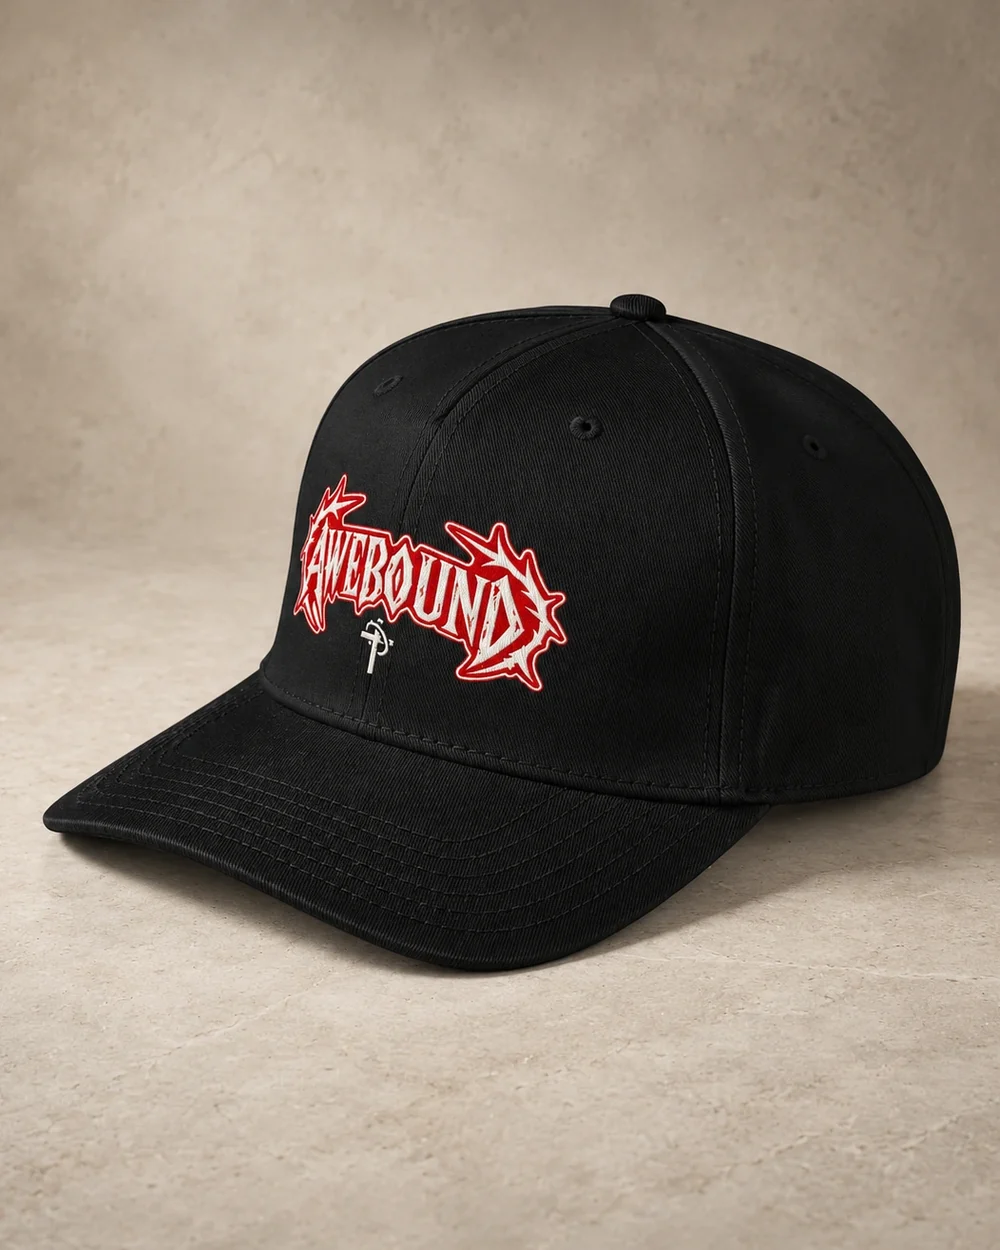
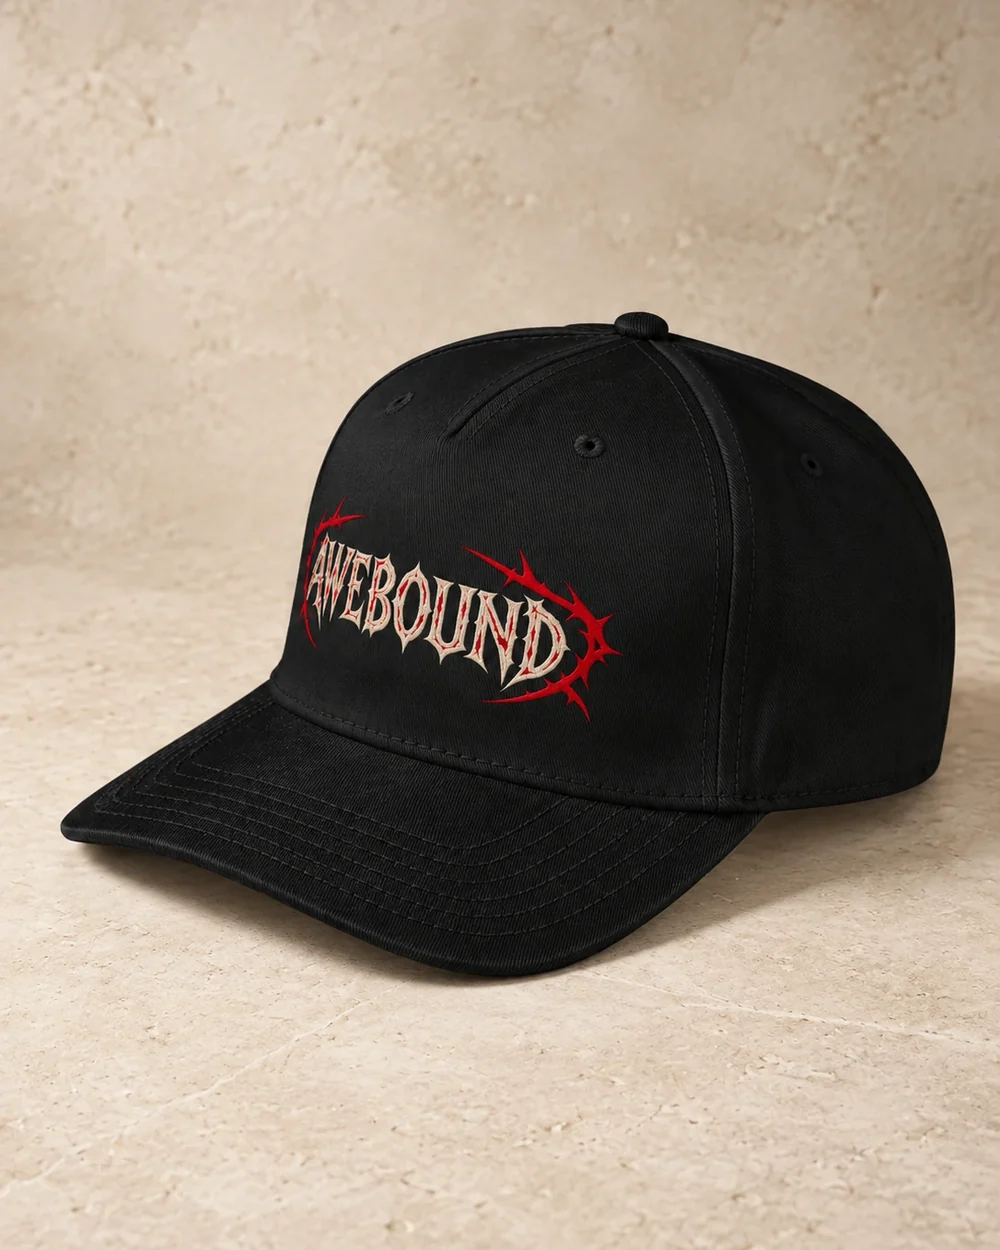
Signature Cap's new print; Instagram, TikTok and Facebook in the footer
The cap's two new Fourthwall photos (the wordmark in ivory with crimson
through its letters, framed by red thorns, no cross below) replace the
old ones; its close-up comes from the new front photo, its plate is
matched to the lighter backdrop, and its copy and alt text describe
the new print. The owner's editor offers suggested wording for the
cap's edited design story and imagery meaning.

The footer's "Follow Awebound" row links the three profiles with their
own marks (Simple Icons, CC0), and the home page's store data lists
them as sameAs.

Claude-Session: https://claude.ai/code/session_01VmqVMxiDGTr2J5oF5LgYP4

diff --git a/apps/web/src/components/social-links.tsx b/apps/web/src/components/social-links.tsx
@@ -1,0 +1,43 @@
+import { SITE, SOCIAL } from "@/lib/site";
+
+/**
+ * Each platform's own mark on a 24 grid, from Simple Icons (CC0), used only to name the service,
+ * in the ink of the footer like the "Ask AI" marks beside it.
+ */
+const MARKS: Record<(typeof SOCIAL)[number]["name"], string> = {
+  Instagram:
+    "M7.0301.084c-1.2768.0602-2.1487.264-2.911.5634-.7888.3075-1.4575.72-2.1228 1.3877-.6652.6677-1.075 1.3368-1.3802 2.127-.2954.7638-.4956 1.6365-.552 2.914-.0564 1.2775-.0689 1.6882-.0626 4.947.0062 3.2586.0206 3.6671.0825 4.9473.061 1.2765.264 2.1482.5635 2.9107.308.7889.72 1.4573 1.388 2.1228.6679.6655 1.3365 1.0743 2.1285 1.38.7632.295 1.6361.4961 2.9134.552 1.2773.056 1.6884.069 4.9462.0627 3.2578-.0062 3.668-.0207 4.9478-.0814 1.28-.0607 2.147-.2652 2.9098-.5633.7889-.3086 1.4578-.72 2.1228-1.3881.665-.6682 1.0745-1.3378 1.3795-2.1284.2957-.7632.4966-1.636.552-2.9124.056-1.2809.0692-1.6898.063-4.948-.0063-3.2583-.021-3.6668-.0817-4.9465-.0607-1.2797-.264-2.1487-.5633-2.9117-.3084-.7889-.72-1.4568-1.3876-2.1228C21.2982 1.33 20.628.9208 19.8378.6165 19.074.321 18.2017.1197 16.9244.0645 15.6471.0093 15.236-.005 11.977.0014 8.718.0076 8.31.0215 7.0301.0839m.1402 21.6932c-1.17-.0509-1.8053-.2453-2.2287-.408-.5606-.216-.96-.4771-1.3819-.895-.422-.4178-.6811-.8186-.9-1.378-.1644-.4234-.3624-1.058-.4171-2.228-.0595-1.2645-.072-1.6442-.079-4.848-.007-3.2037.0053-3.583.0607-4.848.05-1.169.2456-1.805.408-2.2282.216-.5613.4762-.96.895-1.3816.4188-.4217.8184-.6814 1.3783-.9003.423-.1651 1.0575-.3614 2.227-.4171 1.2655-.06 1.6447-.072 4.848-.079 3.2033-.007 3.5835.005 4.8495.0608 1.169.0508 1.8053.2445 2.228.408.5608.216.96.4754 1.3816.895.4217.4194.6816.8176.9005 1.3787.1653.4217.3617 1.056.4169 2.2263.0602 1.2655.0739 1.645.0796 4.848.0058 3.203-.0055 3.5834-.061 4.848-.051 1.17-.245 1.8055-.408 2.2294-.216.5604-.4763.96-.8954 1.3814-.419.4215-.8181.6811-1.3783.9-.4224.1649-1.0577.3617-2.2262.4174-1.2656.0595-1.6448.072-4.8493.079-3.2045.007-3.5825-.006-4.848-.0608M16.953 5.5864A1.44 1.44 0 1 0 18.39 4.144a1.44 1.44 0 0 0-1.437 1.4424M5.8385 12.012c.0067 3.4032 2.7706 6.1557 6.173 6.1493 3.4026-.0065 6.157-2.7701 6.1506-6.1733-.0065-3.4032-2.771-6.1565-6.174-6.1498-3.403.0067-6.156 2.771-6.1496 6.1738M8 12.0077a4 4 0 1 1 4.008 3.9921A3.9996 3.9996 0 0 1 8 12.0077",
+  TikTok:
+    "M12.525.02c1.31-.02 2.61-.01 3.91-.02.08 1.53.63 3.09 1.75 4.17 1.12 1.11 2.7 1.62 4.24 1.79v4.03c-1.44-.05-2.89-.35-4.2-.97-.57-.26-1.1-.59-1.62-.93-.01 2.92.01 5.84-.02 8.75-.08 1.4-.54 2.79-1.35 3.94-1.31 1.92-3.58 3.17-5.91 3.21-1.43.08-2.86-.31-4.08-1.03-2.02-1.19-3.44-3.37-3.65-5.71-.02-.5-.03-1-.01-1.49.18-1.9 1.12-3.72 2.58-4.96 1.66-1.44 3.98-2.13 6.15-1.72.02 1.48-.04 2.96-.04 4.44-.99-.32-2.15-.23-3.02.37-.63.41-1.11 1.04-1.36 1.75-.21.51-.15 1.07-.14 1.61.24 1.64 1.82 3.02 3.5 2.87 1.12-.01 2.19-.66 2.77-1.61.19-.33.4-.67.41-1.06.1-1.79.06-3.57.07-5.36.01-4.03-.01-8.05.02-12.07z",
+  Facebook:
+    "M9.101 23.691v-7.98H6.627v-3.667h2.474v-1.58c0-4.085 1.848-5.978 5.858-5.978.401 0 .955.042 1.468.103a8.68 8.68 0 0 1 1.141.195v3.325a8.623 8.623 0 0 0-.653-.036 26.805 26.805 0 0 0-.733-.009c-.707 0-1.259.096-1.675.309a1.686 1.686 0 0 0-.679.622c-.258.42-.374.995-.374 1.752v1.297h3.919l-.386 2.103-.287 1.564h-3.246v8.245C19.396 23.238 24 18.179 24 12.044c0-6.627-5.373-12-12-12s-12 5.373-12 12c0 5.628 3.874 10.35 9.101 11.647Z",
+};
+
+/** "Follow Awebound": one icon link per profile, each opening in a new tab. */
+export function SocialLinks() {
+  return (
+    <div className="ask-ai social-links">
+      <p className="aw-label">Follow {SITE.name}</p>
+      <ul>
+        {SOCIAL.map((s) => (
+          <li key={s.name}>
+            <a className="icon-btn" href={s.href} target="_blank" rel="noopener noreferrer me">
+              <svg
+                viewBox="0 0 24 24"
+                width="20"
+                height="20"
+                fill="currentColor"
+                aria-hidden="true"
+              >
+                <path d={MARKS[s.name]} />
+              </svg>
+              <span className="visually-hidden">
+                {SITE.name} on {s.name} (opens in a new tab)
+              </span>
+            </a>
+          </li>
+        ))}
+      </ul>
+    </div>
+  );
+}

diff --git a/apps/web/src/app/page.tsx b/apps/web/src/app/page.tsx
@@ -11,7 +11,7 @@ import { LeadPiece } from "@/features/home/lead-piece";
 import { toLeadSlide } from "@/features/home/lead-slide";
 import { ReleaseWall } from "@/features/release/release-wall";
 import { siteUrl } from "@/lib/env";
-import { SITE, pageMeta } from "@/lib/site";
+import { SITE, SOCIAL, pageMeta } from "@/lib/site";
 import { getEntitlement } from "@/server/archive/entitlements";
 import { getArchiveOffer, getArchivePreview } from "@/server/archive/offer";
 import { getLatestRelease, getProduct, searchProducts, withFallback } from "@/server/catalog";
@@ -24,7 +24,7 @@ export const metadata = pageMeta({ path: "/" });
 // minute (server/fourthwall.ts).
 export const dynamic = "force-dynamic";
 
-/** Who Awebound is, for search engines and AI assistants. Add `sameAs` once social links exist. */
+/** Who Awebound is, for search engines and AI assistants, with its own profiles as `sameAs`. */
 const STORE = {
   "@context": "https://schema.org",
   "@graph": [
@@ -37,6 +37,7 @@ const STORE = {
       description: SITE.description,
       slogan: SITE.tagline,
       email: SITE.contactEmail,
+      sameAs: SOCIAL.map((s) => s.href),
     },
     {
       "@type": "WebSite",

diff --git a/apps/web/src/app/layout.tsx b/apps/web/src/app/layout.tsx
@@ -5,6 +5,7 @@ import type { ReactNode } from "react";
 import { AskAi } from "@/components/ask-ai";
 import { Providers } from "@/components/providers";
 import { SiteFooter } from "@/components/site-footer";
+import { SocialLinks } from "@/components/social-links";
 import { SiteHeader } from "@/components/site-header";
 import { BagDrawer } from "@/features/bag/bag-drawer";
 import { siteUrl } from "@/lib/env";
@@ -78,6 +79,7 @@ export default function RootLayout({ children }: { children: ReactNode }) {
           <SiteHeader />
           <main id="main">{children}</main>
           <SiteFooter notice={TRANSLATION_NOTICE}>
+            <SocialLinks />
             <AskAi />
           </SiteFooter>
           <BagDrawer />

diff --git a/apps/web/src/lib/site.ts b/apps/web/src/lib/site.ts
@@ -11,6 +11,21 @@ export const SITE = {
   contactEmail: CONTACT_EMAIL,
 } as const;
 
+/** Awebound's own profiles: the footer's icons and the home page's store data (`sameAs`). */
+export const SOCIAL = [
+  {
+    name: "Instagram",
+    handle: "@awebound.store",
+    href: "https://www.instagram.com/awebound.store/",
+  },
+  { name: "TikTok", handle: "@aweboundstore", href: "https://www.tiktok.com/@aweboundstore" },
+  {
+    name: "Facebook",
+    handle: "Awebound",
+    href: "https://www.facebook.com/profile.php?id=61595167444851",
+  },
+] as const;
+
 export const SHARE_IMAGE = {
   url: "/og.png",
   width: 1200,

diff --git a/.claude/skills/awebound-brand/assets/components/index.d.ts b/.claude/skills/awebound-brand/assets/components/index.d.ts
@@ -39,7 +39,7 @@ export declare const PLATE_HEX: {
   readonly "plate-sandstone": "#e1cbb4";
   readonly "plate-rose": "#d6988d";
   readonly "plate-linen": "#d1c0af";
-  readonly "plate-concrete": "#c1af9b";
+  readonly "plate-concrete": "#e3ccb4";
 };
 /** The ink a plate's lettering takes (`plate.ink` in the content file). */
 export declare const INK_HEX: {

diff --git a/packages/brand/src/hex.ts b/packages/brand/src/hex.ts
@@ -25,7 +25,7 @@ export const PLATE_HEX = {
   "plate-sandstone": "#e1cbb4",
   "plate-rose": "#d6988d",
   "plate-linen": "#d1c0af",
-  "plate-concrete": "#c1af9b",
+  "plate-concrete": "#e3ccb4",
 } as const;
 
 /** The ink a plate's lettering takes (`plate.ink` in the content file). */

diff --git a/.claude/skills/awebound-brand/assets/components/awebound.umd.js b/.claude/skills/awebound-brand/assets/components/awebound.umd.js
@@ -135,7 +135,7 @@ var Awebound = (() => {
     "plate-sandstone": "#e1cbb4",
     "plate-rose": "#d6988d",
     "plate-linen": "#d1c0af",
-    "plate-concrete": "#c1af9b",
+    "plate-concrete": "#e3ccb4",
   };
   var INK_HEX = { bone: "#F0E6D2", coal: "#151413" };
 

diff --git a/.claude/skills/awebound-brand/assets/components/awebound-components.jsx b/.claude/skills/awebound-brand/assets/components/awebound-components.jsx
@@ -29,7 +29,7 @@ var PLATE_HEX = {
   "plate-sandstone": "#e1cbb4",
   "plate-rose": "#d6988d",
   "plate-linen": "#d1c0af",
-  "plate-concrete": "#c1af9b",
+  "plate-concrete": "#e3ccb4",
 };
 var INK_HEX = { bone: "#F0E6D2", coal: "#151413" };
 

diff --git a/.claude/skills/awebound-brand/assets/tokens.css b/.claude/skills/awebound-brand/assets/tokens.css
@@ -119,7 +119,7 @@
   --plate-sandstone: #e1cbb4;
   --plate-rose: #d6988d;
   --plate-linen: #d1c0af;
-  --plate-concrete: #c1af9b;
+  --plate-concrete: #e3ccb4;
   --radius-0: 0px;
   --radius-sm: 2px;
   --container-max: 1440px;

diff --git a/packages/brand/src/styles/tokens.css b/packages/brand/src/styles/tokens.css
@@ -117,7 +117,7 @@
   --plate-sandstone: #e1cbb4;
   --plate-rose: #d6988d;
   --plate-linen: #d1c0af;
-  --plate-concrete: #c1af9b;
+  --plate-concrete: #e3ccb4;
   --radius-0: 0px;
   --radius-sm: 2px;
   --container-max: 1440px;

diff --git a/assets/mockups/compose.py b/assets/mockups/compose.py
@@ -80,7 +80,7 @@ STYLE = {
     # Black cap, white lamb: warm linen, like the studio the cap's photos were taken in.
     "lambs-mark": {"color": (209, 192, 175), "texture": "linen", "light": "upper-left"},
     # Black cap, red-edged wordmark: warm sand concrete with a fine speckle, lit from above.
-    "signature-cap": {"color": (193, 175, 155), "texture": "speckle", "light": "top"},
+    "signature-cap": {"color": (227, 204, 180), "texture": "speckle", "light": "top"},
 }
 
 CAPS = ("lambs-mark", "signature-cap")
@@ -104,7 +104,8 @@ VIEWS = {
     "the-passage": {"views": ["back", "front"], "detail": ("photo:3", 0.52, 0.6, 0.681)},
     "wonderfully-made": {"views": ["back", "front"], "detail": ("back", 0.5, 0.52, 0.52)},
     "lambs-mark": {"views": ["front", "side", "back"], "detail": ("front", 0.5, 0.43, 0.54)},
-    "signature-cap": {"views": ["front", "side", "back"], "detail": ("front", 0.5, 0.42, 0.52)},
+    # Its front print changed in October 2026 and no render shows it yet: the close-up is the photo.
+    "signature-cap": {"views": ["front", "side", "back"], "detail": ("photo:1", 0.5, 0.49, 0.6)},
 }
 
 

diff --git a/.claude/skills/awebound-brand/references/web.md b/.claude/skills/awebound-brand/references/web.md
@@ -30,7 +30,7 @@ All component files are generated from `packages/brand`. After the site's brand 
 
 Sign in puts the form first, at the top of the page on every screen (Join Awebound, “Accounts are free. Guest checkout is always available.”, Continue with Google, then email), with what My Archive holds beneath it after a rule, so signing in never waits behind the explanation. The explanation is tiles with pictures drawn from the release's own pieces, in two groups under rules: “Included with your account” (Save with the heart: a piece on its plate with a filled heart; On every device: saved pieces on a laptop and a phone; Your orders together: two order rows; Open to everyone: a verse in full) and “With each design you buy” (The deeper design story: the print's close-up with a lock; A founder’s note from Richard: his portrait on bone paper beside the lines of a letter, locked; Scripture and biblical context: the design's card; Wallpapers and extras: a phone wallpaper and a design card), then the line that signing up alone opens nothing. A design's protected content is pictured, never shown. Tiles run four across on wide screens and two across below that, where an odd tile out runs the full width. The Account overview opens with a short welcome until it is dismissed (a new account: one sentence and **Explore Behold**; a buyer: open the design that came in), with an outlined button and a link-style **Dismiss**. The account's navigation sets **My Archive** and **Your collection** as two red buttons, then a rule and Saved, Orders, Settings as plain links; on phones the two buttons share the first row. Your collection lists only the designs the account owns; empty, it lists what each design brings to it as short lines with copper dots, says why it is empty and offers one next step. Every Archive sentence comes from `features/archive/offer.ts`; the explanation names the whole Archive wherever accounts are open, while what a person gets follows what works.
 
-The footer also carries the "Ask AI about Awebound" links (ChatGPT, Claude, Perplexity, Gemini) under the tagline, and the Scripture translation notice in its legal line.
+The footer also carries "Follow Awebound" (Instagram, TikTok and Facebook as their own marks, from `SOCIAL` in `apps/web/src/lib/site.ts`, each opening in a new tab) and the "Ask AI about Awebound" links (ChatGPT, Claude, Perplexity, Gemini) under the tagline, and the Scripture translation notice in its legal line.
 
 ## Rules that are easy to miss
 
